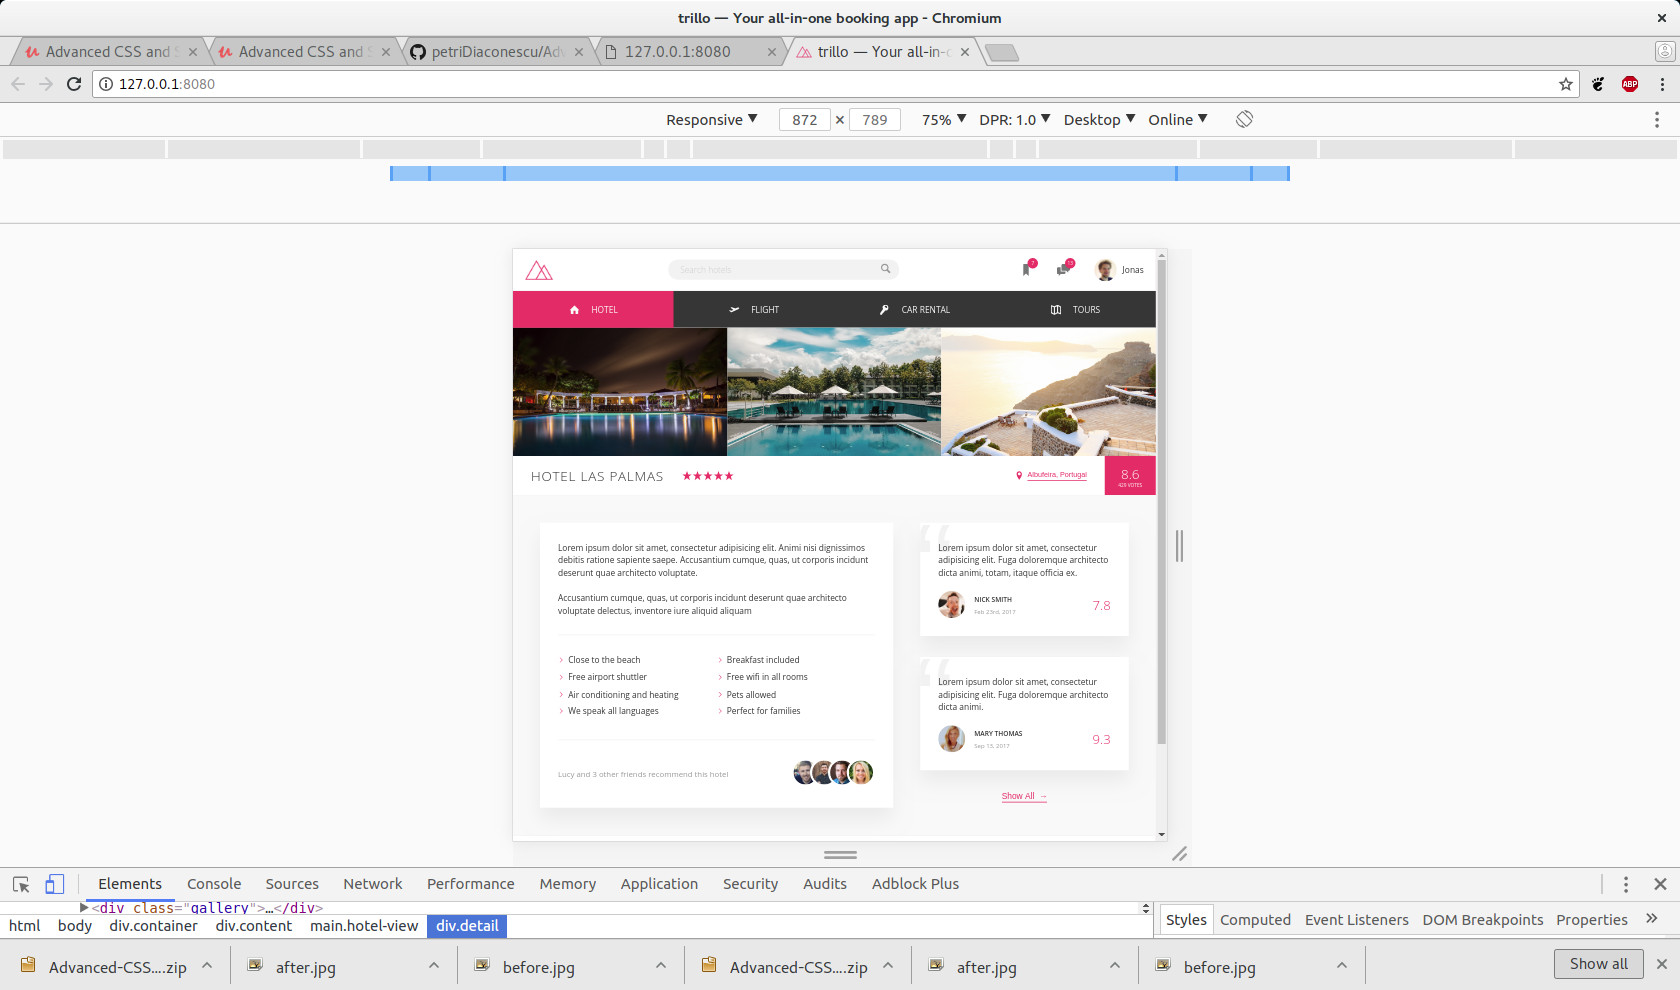
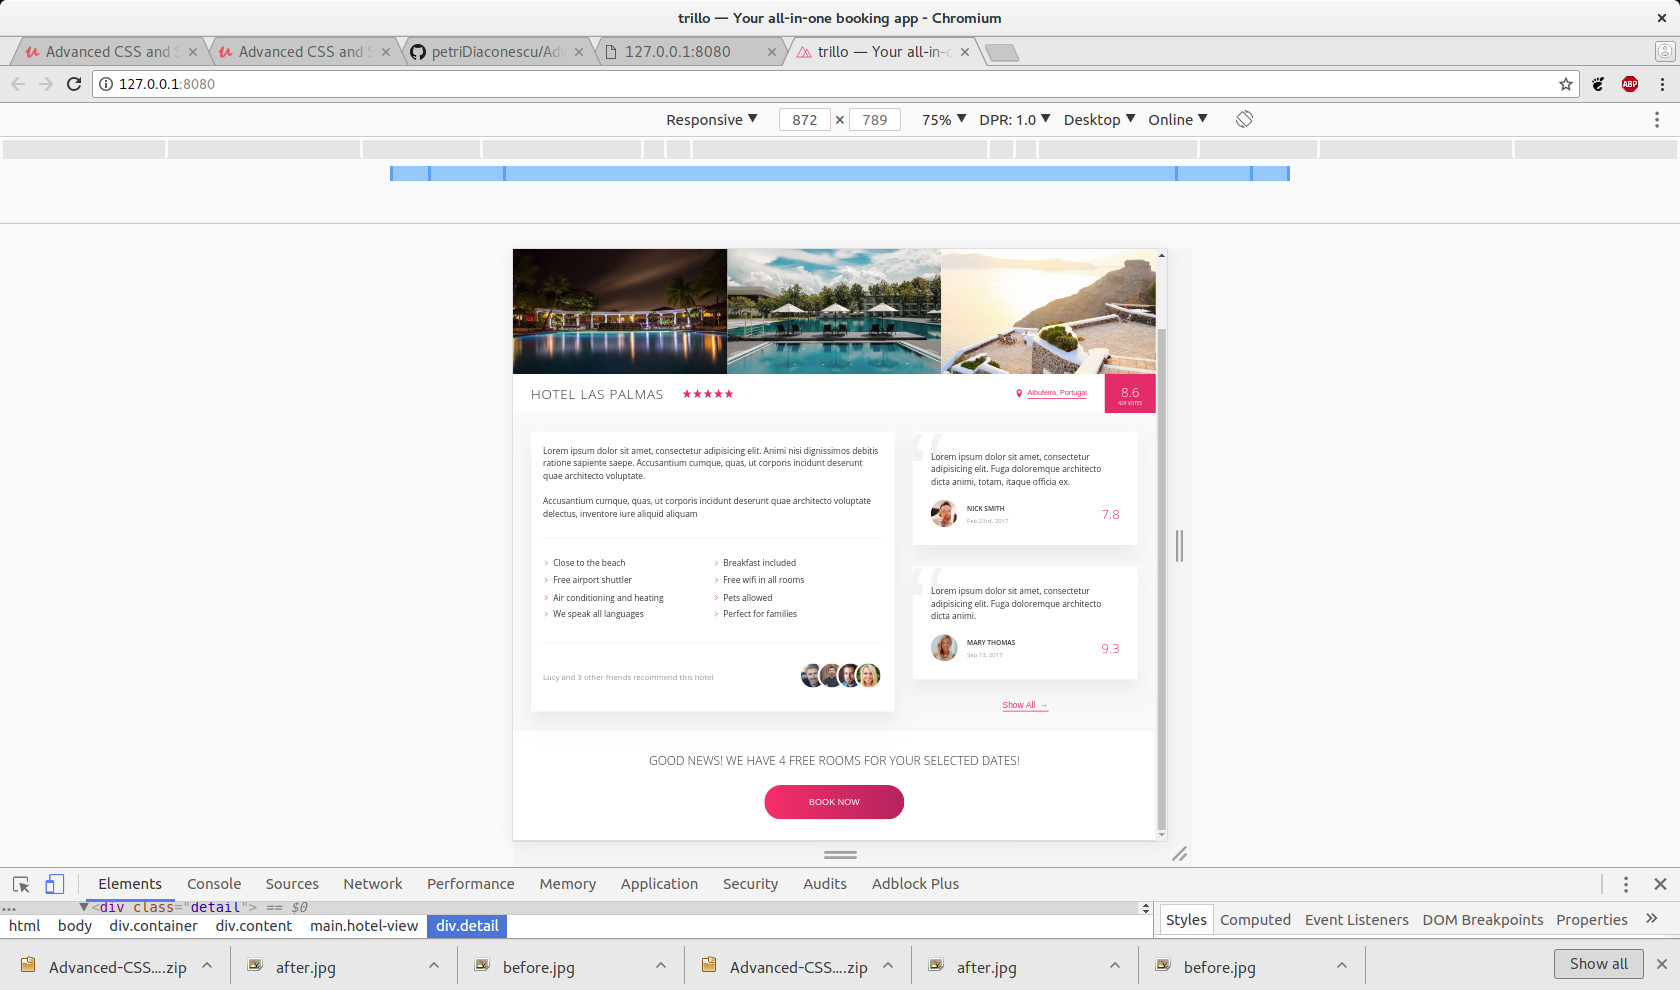
Decrease the cta section margins under 900px screen devices

diff --git a/sass/_components.scss b/sass/_components.scss
@@ -421,6 +421,11 @@
   position: relative;
   overflow: hidden;
   
+  @media only screen and (max-width: $bp-medium){
+    margin-bottom: 3rem;
+    padding: 2rem;
+  }
+  
   &__text {
     margin-bottom: 2rem;
     z-index: 10;
@@ -479,6 +484,10 @@
 .cta {
   padding: 3.5rem;
   text-align: center;
+  
+  @media only screen and (max-width: $bp-medium){
+    padding: 2.5rem 0;
+  }
   
   &__book-now {
     font-size: 2rem;
